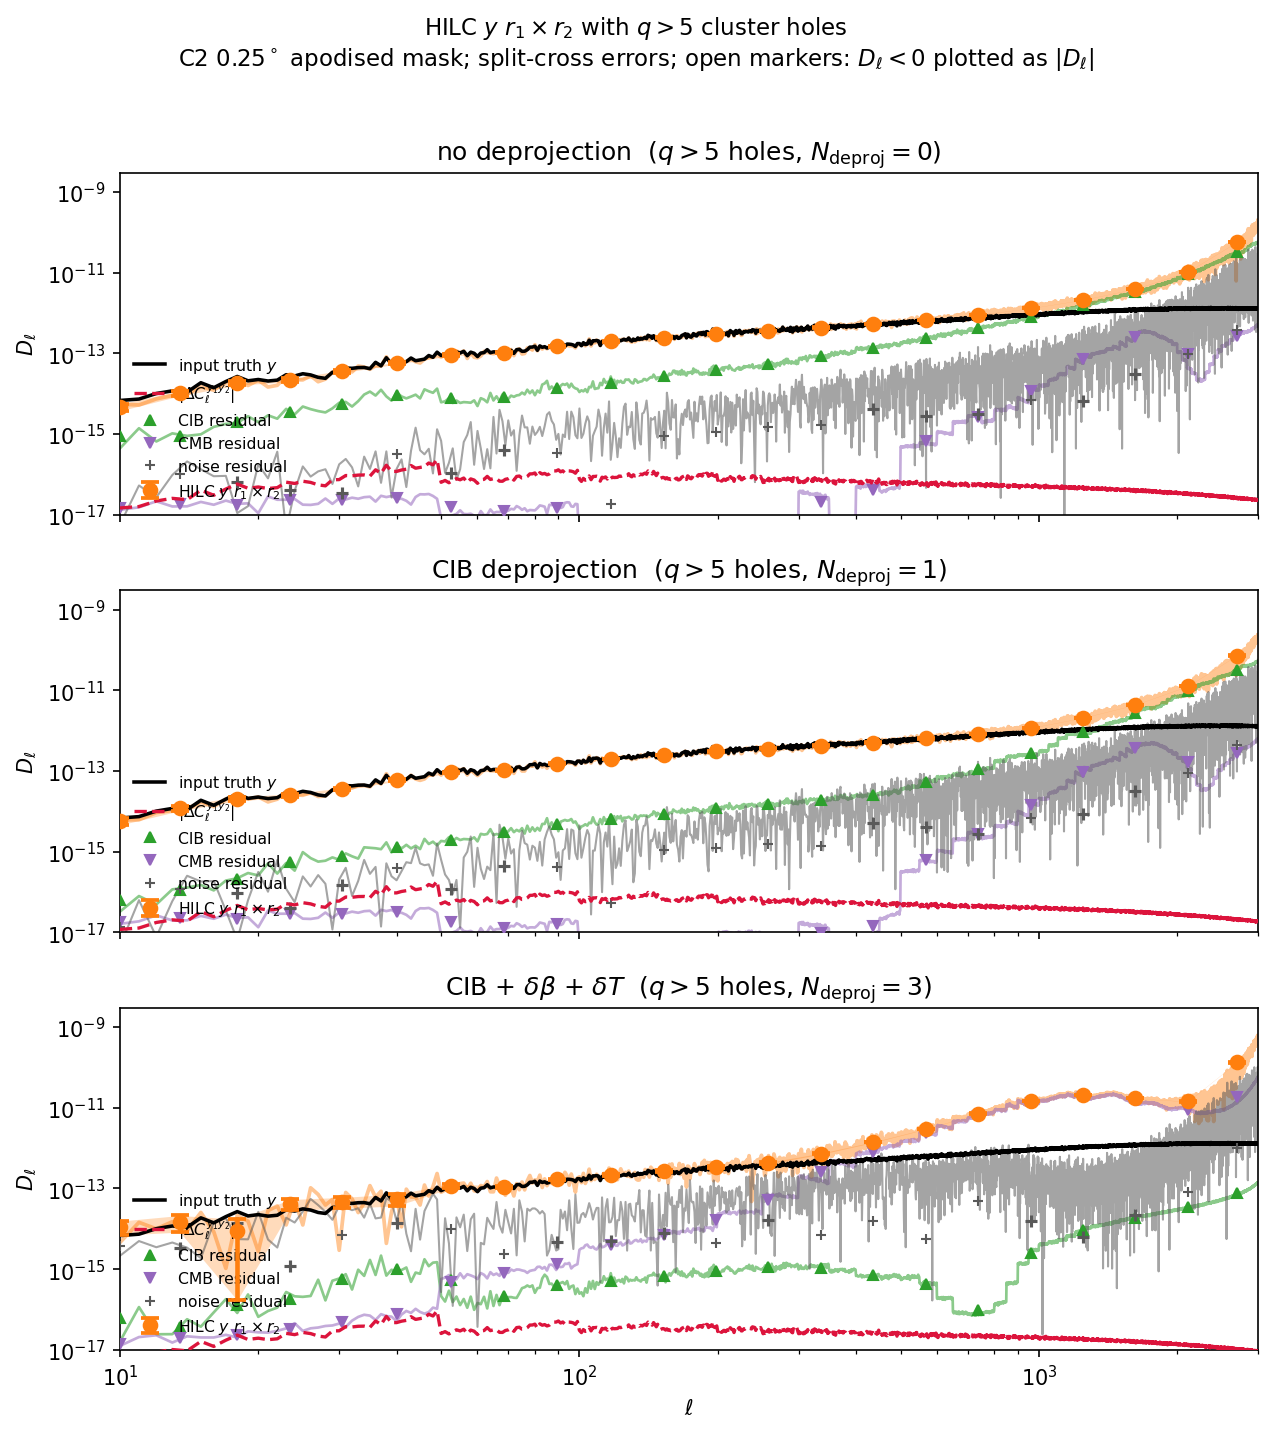
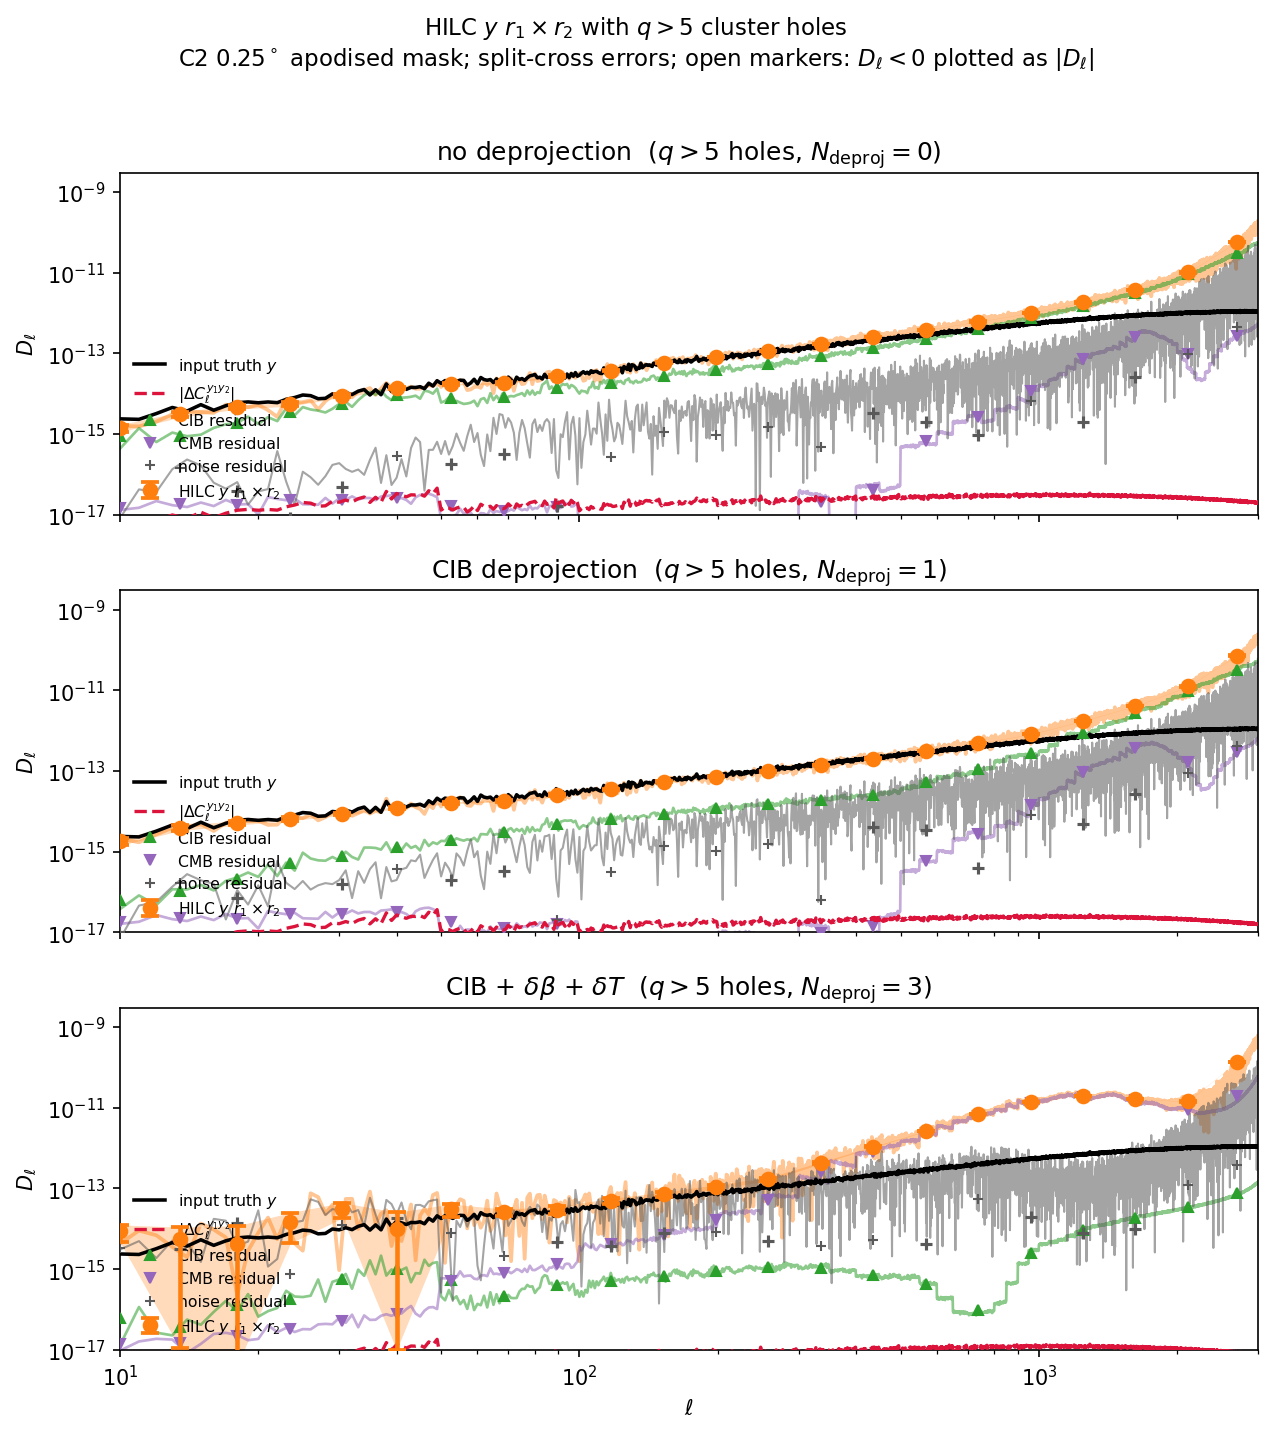
Invalidate stale L1_m9 Fig. 9 caches

diff --git a/scripts/plot_hilc_homog_q5masked_r1xr2_fig9.py b/scripts/plot_hilc_homog_q5masked_r1xr2_fig9.py
@@ -33,7 +33,7 @@ sys.modules["hilc_r1xr2_diag"] = diag
 _spec.loader.exec_module(diag)
 
 sys.path.insert(0, str(ROOT / "scripts"))
-from hilc_prescriptions import cluster_mask_apo  # noqa: E402
+from hilc_prescriptions import cache_stale, cluster_mask_apo  # noqa: E402
 
 NSIDE = diag.NSIDE
 LMAX = diag.LMAX
@@ -134,11 +134,25 @@ def ilc_bias_curves(cl_tt: np.ndarray, n_deproj: int, fsky: float):
 
 def load_or_compute(case: Case, bl, good, w_apo: np.ndarray, fsky: float) -> dict:
     stored: dict[str, np.ndarray] = {}
-    if case.cl_cache.is_file():
+    cl_sources = [MASK_APO, case.ymap_r1, case.ymap_r2, diag.TRUTH]
+    if not cache_stale(case.cl_cache, cl_sources):
         z = np.load(case.cl_cache)
         stored.update({k: z[k] for k in z.files})
         print("loaded", case.cl_cache)
-    if case.res_cache.is_file():
+    weight_pattern = f"flamingo_weightvector_scale*_component_tSZ{case.wtag}.txt"
+    weight_sources = sorted(case.wdir_r1.glob(weight_pattern))
+    weight_sources += sorted(case.wdir_r2.glob(weight_pattern))
+    signal_sources = [diag.CMB_MAP]
+    signal_sources += [
+        diag.CIB_DIR / f"CIB_deltaT_{f}GHz_nside4096.fits" for f in diag.FREQS
+    ]
+    noise_sources = [
+        diag.NOISE_DIR / f"{f}GHz" / f"white_noise_{f}GHz_nside{NSIDE}_uK{tag}.fits"
+        for f in diag.FREQS
+        for tag in ("", "_r2")
+    ]
+    res_sources = [MASK_APO, *weight_sources, *signal_sources, *noise_sources]
+    if not cache_stale(case.res_cache, res_sources):
         z = np.load(case.res_cache)
         stored.update({k: z[k] for k in z.files})
         print("loaded", case.res_cache)

diff --git a/scripts/plot_hilc_homog_prescriptions.py b/scripts/plot_hilc_homog_prescriptions.py
@@ -38,6 +38,7 @@ from hilc_prescriptions import (  # noqa: E402
     DeprojCase,
     ILC,
     LABELS,
+    cache_stale,
     catalogue_path,
     cib_dir,
     cluster_mask_apo,
@@ -79,13 +80,6 @@ def _signal_cache_path(name: str) -> Path:
     return PLOT_CACHE / f"signal_alms_{name}_lmax{LMAX}.npz"
 
 
-def _cache_stale(cache_p: Path, sources: list[Path]) -> bool:
-    if not cache_p.is_file():
-        return True
-    cache_mtime = cache_p.stat().st_mtime
-    return any(p.is_file() and p.stat().st_mtime > cache_mtime for p in sources)
-
-
 def _save_signal_alms(cache_p: Path, cmb_alm, tsz_alms, cib_alms) -> None:
     cache_p.parent.mkdir(parents=True, exist_ok=True)
     payload = {"cmb_alm": cmb_alm}
@@ -111,7 +105,7 @@ def _load_signal_alms_cache(cache_p: Path) -> dict[str, tuple]:
 def signal_alms(name: str) -> dict[str, tuple]:
     cache_p = _signal_cache_path(name)
     sources = _signal_source_paths(name)
-    if not _cache_stale(cache_p, sources):
+    if not cache_stale(cache_p, sources):
         print(f"loaded signal alms cache ({name})", flush=True)
         return _load_signal_alms_cache(cache_p)
 

diff --git a/tests/test_hilc_prescriptions.py b/tests/test_hilc_prescriptions.py
@@ -1,6 +1,7 @@
 """HILC YAML for baryonic / LS8 variants must not reuse the L1_m9 mask or totals."""
 from __future__ import annotations
 
+import os
 import sys
 from pathlib import Path
 
@@ -11,6 +12,7 @@ from hilc_prescriptions import (  # noqa: E402
     DEPROJ_MOMENTS,
     DEPROJ_NONE,
     PRESCRIPTIONS,
+    cache_stale,
     catalogue_path,
     cluster_mask_binary,
     cmb_path,
@@ -22,6 +24,17 @@ from hilc_prescriptions import (  # noqa: E402
     write_hilc_yaml,
     yaml_path,
 )
+
+
+def test_cache_stale_tracks_newer_inputs(tmp_path):
+    source, cache = tmp_path / "source", tmp_path / "cache"
+    source.touch()
+    cache.touch()
+    os.utime(source, ns=(1, 1))
+    os.utime(cache, ns=(2, 2))
+    assert not cache_stale(cache, [source])
+    os.utime(source, ns=(3, 3))
+    assert cache_stale(cache, [source])
 
 
 def test_catalogues_and_masks_are_per_prescription():

diff --git a/tests/test_powerspectra_sigma.py b/tests/test_powerspectra_sigma.py
@@ -139,10 +139,14 @@ def test_hilc_plot_scripts_use_l1_m9_not_test():
     )
     for name in files:
         src = (root / name).read_text()
-        assert "components/tsz/L1_m9" in src, name
+        assert (
+            "components/tsz/L1_m9" in src or 'tsz_dir("L1_m9")' in src
+        ), name
         assert "components/tsz/test" not in src, name
         if "CIB_DIR" in src:
-            assert "components/cib/L1_m9" in src, name
+            assert (
+                "components/cib/L1_m9" in src or 'cib_dir("L1_m9")' in src
+            ), name
             assert "components/cib/test" not in src, name
 
 

diff --git a/scripts/hilc_prescriptions.py b/scripts/hilc_prescriptions.py
@@ -80,6 +80,16 @@ ALL_DEPROJ = (
 DEPROJ_BY_KEY = {d.key: d for d in ALL_DEPROJ}
 
 
+def cache_stale(cache: Path, sources: list[Path]) -> bool:
+    if not cache.is_file():
+        return True
+    cache_mtime = cache.stat().st_mtime
+    return any(
+        source.is_file() and source.stat().st_mtime > cache_mtime
+        for source in sources
+    )
+
+
 def total_maps_dir(name: str) -> Path:
     return SYNTH / "total_maps" / name
 
